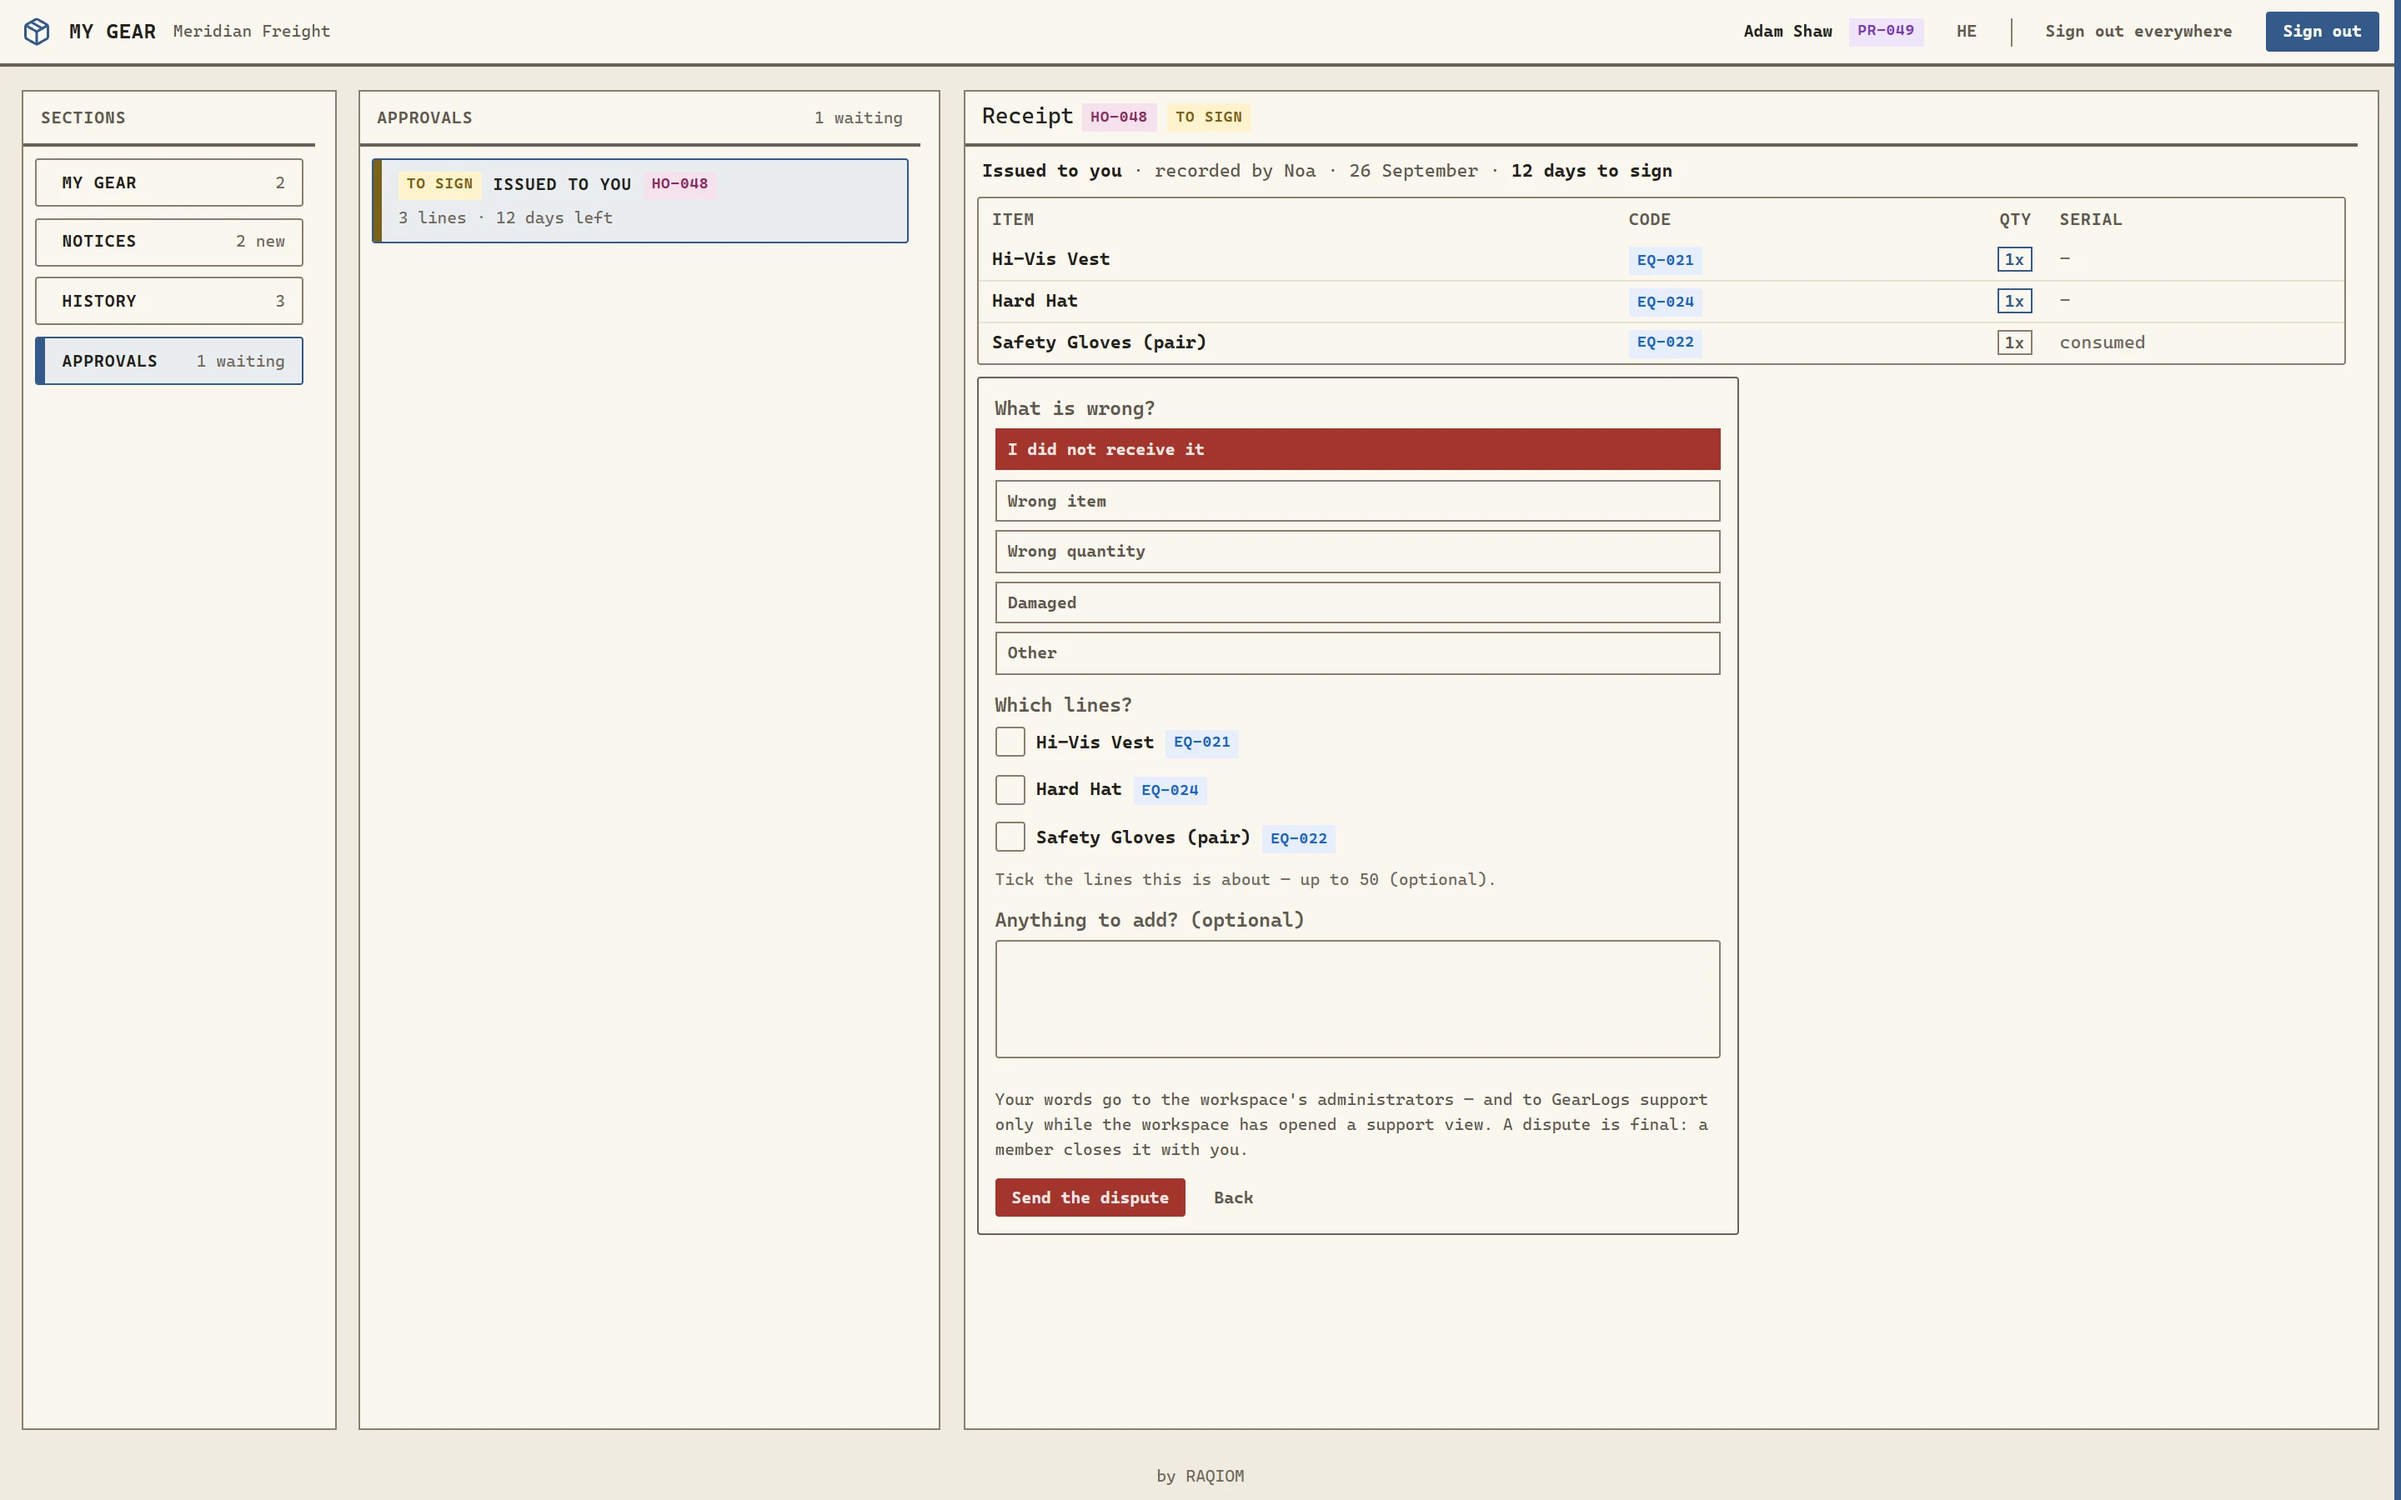
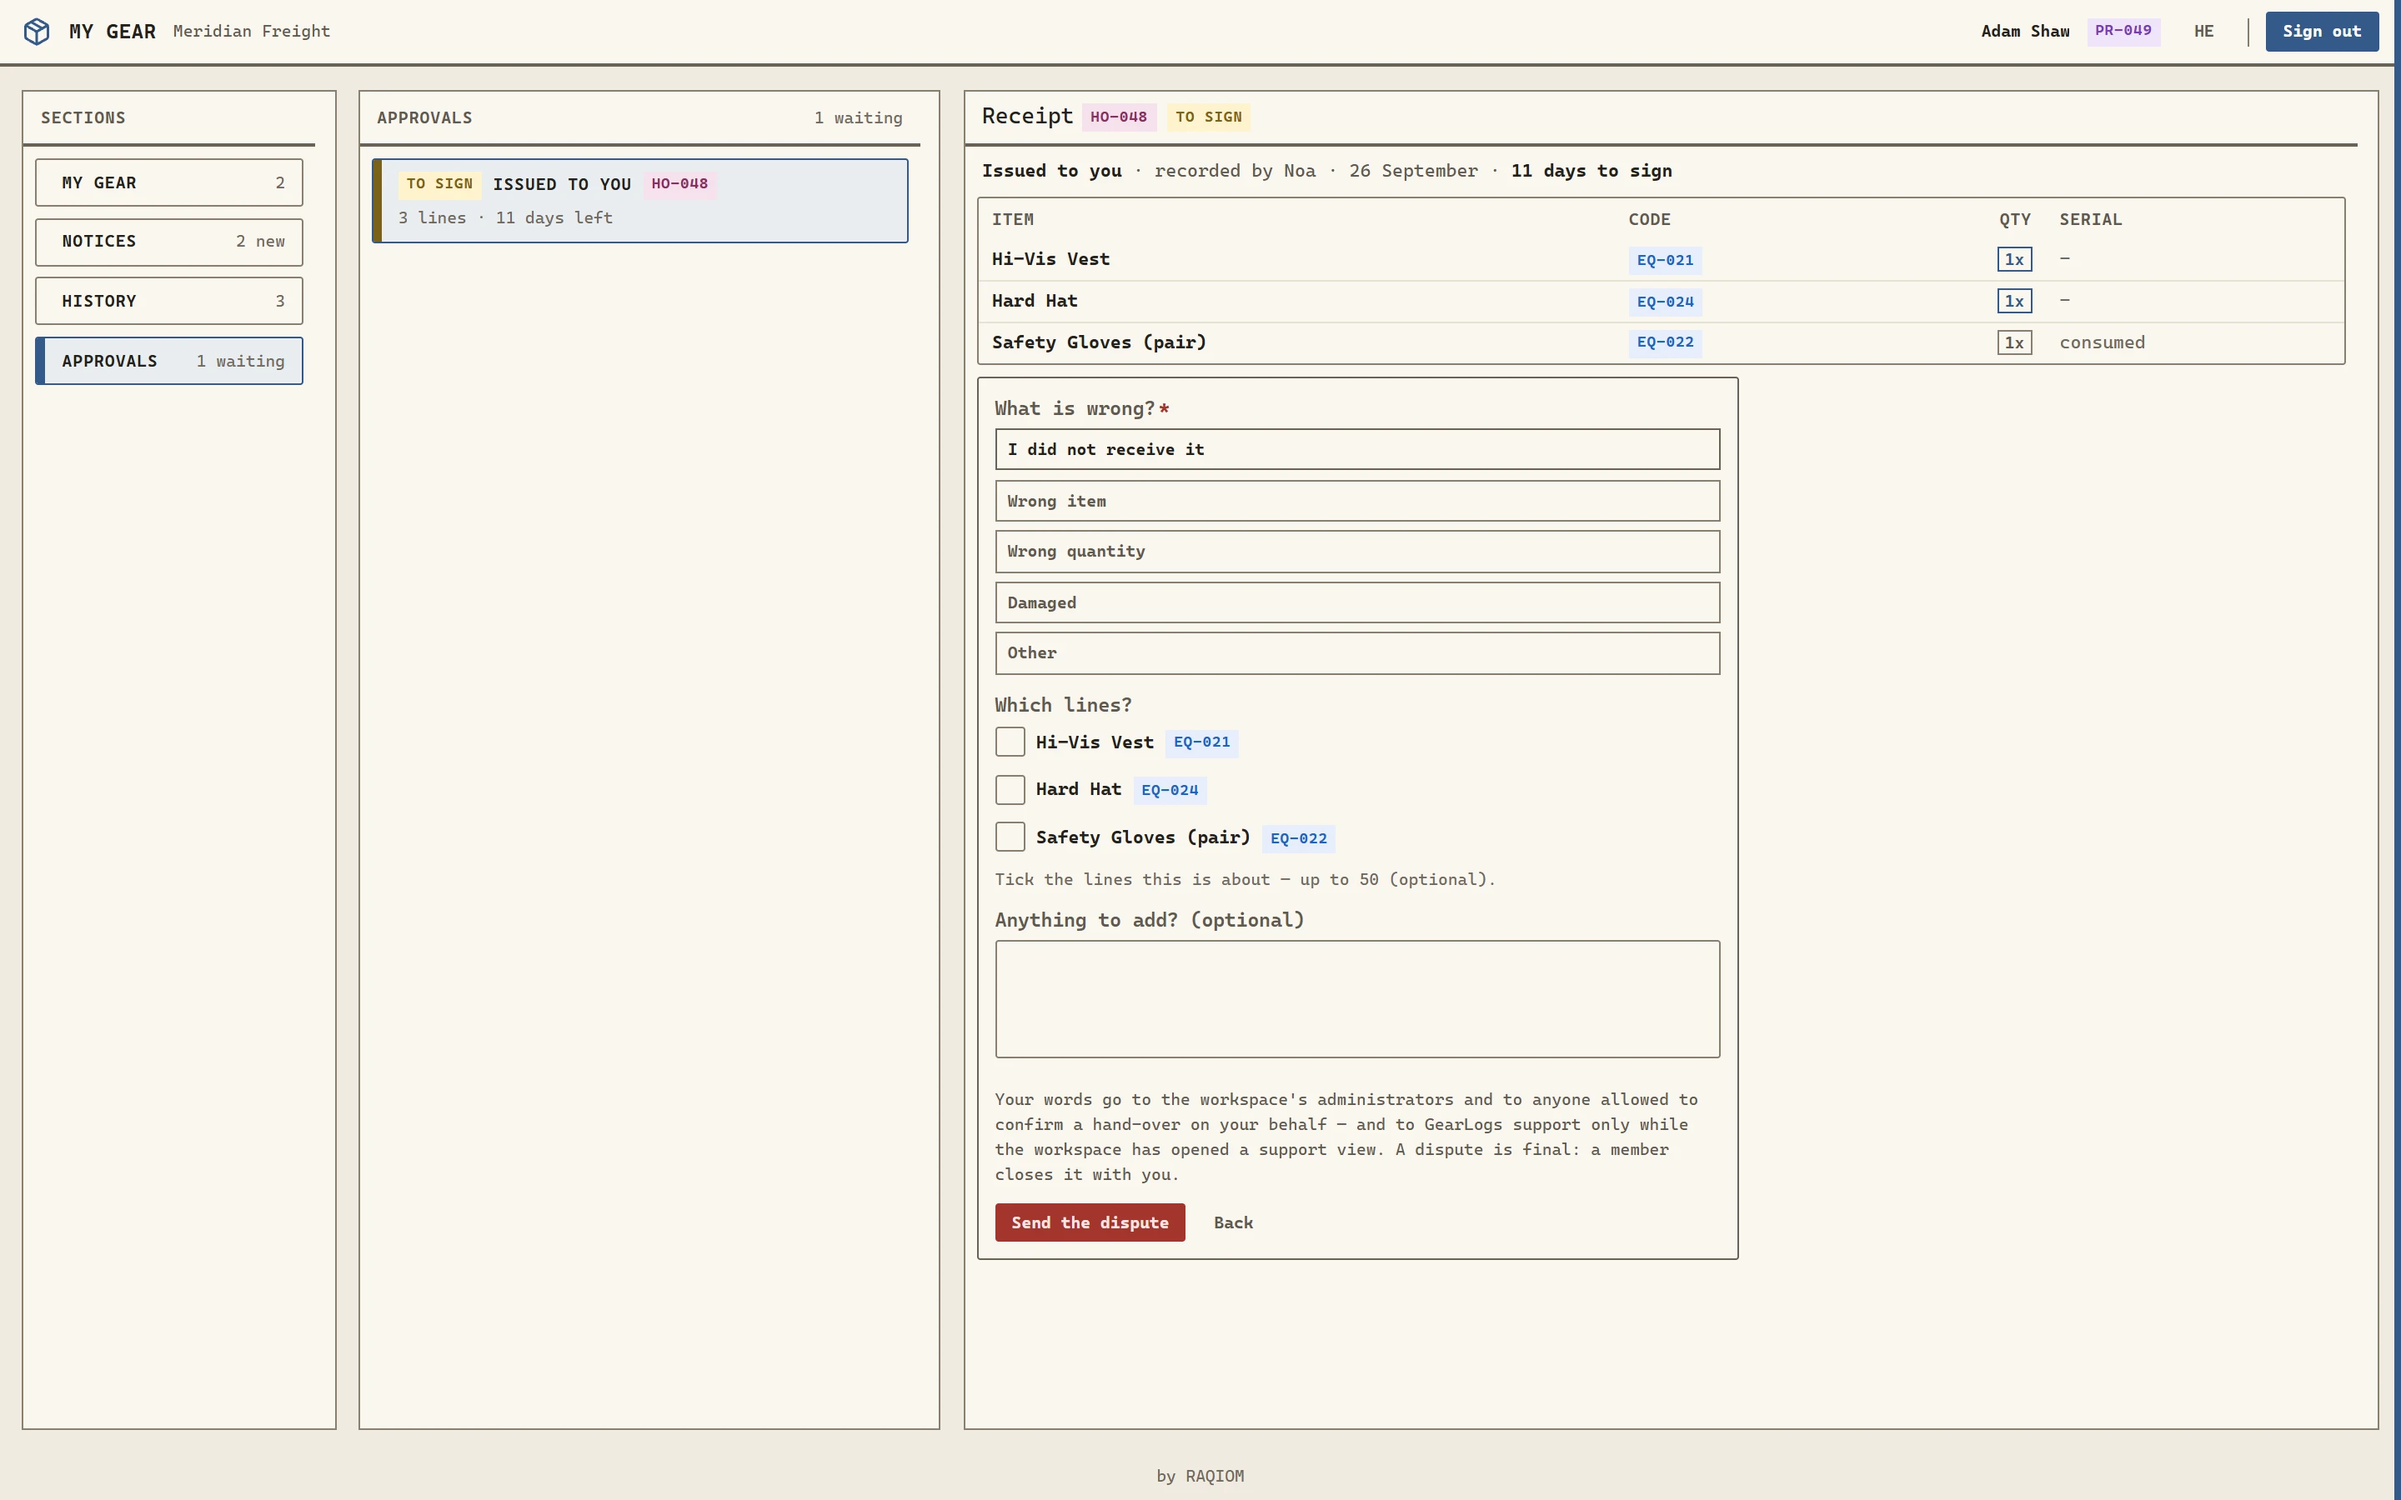
The stage 4 pictures: the top bar and the dispute form re-taken, the workspace code on the Personnel band (EN + HE)
Taken at the Director's sitting: mygear-topbar (one Sign out, three marks),
mygear-receipt-dispute (nothing chosen, the new sentence), personnel-ws-code
(the band's end slot). Guide 4.24 gets its badges back, 4.26 its caption,
4.25 the band picture. The band recipe's missing import fixed.

Claude-Session: https://claude.ai/code/session_01UuJvrsWccbWnuyUmEBS649

diff --git a/src/bodies/guides/sign-in-my-gear.he.html b/src/bodies/guides/sign-in-my-gear.he.html
@@ -61,7 +61,7 @@
               <li>קוראים את השורה שמעל הכפתור, ולוחצים על <em>שליחת הערעור</em>.</li>
             </ol>
             <p>המילים שלכם מגיעות למנהלי המערכת ולמי שרשאי לאשר מסירה בשמכם, ולתמיכת GearLogs רק כל עוד פתוחה תצוגת תמיכה בסביבת העבודה. ערעור הוא סופי מבחינתכם: חבר צוות סוגר אותו יחד אתכם. מנהלי המערכת מקבלים הודעה בפעמון. <em>חזרה</em> יוצא מהטופס בלי לשלוח דבר.</p>
-            <gl-shot id="mygear-receipt-dispute" caption="משהו לא נכון: הסיבות, השורות, המילים שלכם, ושליחת הערעור." marks></gl-shot>
+            <gl-shot id="mygear-receipt-dispute" caption="משהו לא נכון: הסיבות (אף אחת לא מסומנת עד שבוחרים), השורות, המילים שלכם, ושליחת הערעור." marks></gl-shot>
           </li>
           <li class="gstep" id="step-5">
             <h2 class="gstep-t">מוצאים את הציוד שכבר רשום על שמכם.</h2>

diff --git a/src/bodies/guides/sign-in-my-gear.en.html b/src/bodies/guides/sign-in-my-gear.en.html
@@ -61,7 +61,7 @@
               <li>Read the line above the button, then press <em>Send the dispute</em>.</li>
             </ol>
             <p>Your words go to your administrators and to anyone allowed to confirm a hand-over on your behalf, and to GearLogs support only while the workspace has opened a support view. A dispute is final for you: a member of your team closes it with you. Your administrators are told in the bell. <em>Back</em> leaves the form with nothing sent.</p>
-            <gl-shot id="mygear-receipt-dispute" caption="Something is wrong: the reasons, the lines, your words, and Send the dispute." marks></gl-shot>
+            <gl-shot id="mygear-receipt-dispute" caption="Something is wrong: the reasons (none chosen until you pick one), the lines, your words, and Send the dispute." marks></gl-shot>
           </li>
           <li class="gstep" id="step-5">
             <h2 class="gstep-t">Find the gear on your name already.</h2>

diff --git a/src/bodies/guides/give-my-gear.he.html b/src/bodies/guides/give-my-gear.he.html
@@ -63,6 +63,7 @@
               <li><em>אישורים</em>: אישורי המסירה שממתינים לחתימה שלו.</li>
             </ol>
             <p>כש<em>אימייל בוקר לאנשים שלכם</em> פעיל, בהגדרות &rsaquo; התראות, אימייל בוקר מגיע אליהם כשמשהו חדש ממתין. הקישור שבו ממלא עבורם את קוד סביבת העבודה.</p>
+            <gl-shot id="personnel-ws-code" caption="כוח אדם: קוד סביבת העבודה בקצה הסרגל, כפתור ההעתקה וה-(i) שלו." marks></gl-shot>
             <gl-shot id="mygear-sections" caption="הציוד שלי, הדף שהאנשים שלכם נכנסים אליו: ארבעת המדורים שלו." marks></gl-shot>
           </li>
           <li class="gstep" id="step-5">

diff --git a/src/bodies/guides/give-my-gear.en.html b/src/bodies/guides/give-my-gear.en.html
@@ -63,6 +63,7 @@
               <li><em>Approvals</em>: the receipts waiting for their signature.</li>
             </ol>
             <p>With <em>Morning mail to your people</em> on, in Settings &rsaquo; Notifications, a morning email reaches them when something new waits. Its link fills in the workspace code for them.</p>
+            <gl-shot id="personnel-ws-code" caption="Personnel: the workspace code at the end of the band, its Copy button and its (i)." marks></gl-shot>
             <gl-shot id="mygear-sections" caption="My Gear, the page your people sign in to: its four sections." marks></gl-shot>
           </li>
           <li class="gstep" id="step-5">

diff --git a/src/bodies/guides/open-my-gear.he.html b/src/bodies/guides/open-my-gear.he.html
@@ -72,7 +72,7 @@
               <li><em>יציאה</em> מסיימת את החיבור שלכם. אתם מחוברים ממכשיר אחד בכל פעם, כך שאין חיבור אחר לסיים.</li>
             </ol>
             <p>במחשב משותף, צאו תמיד כשאתם מסיימים.</p>
-            <gl-shot id="mygear-topbar" caption="הסרגל העליון: השם והקוד שלכם, מתג השפה ויציאה."></gl-shot>
+            <gl-shot id="mygear-topbar" caption="הסרגל העליון: השם והקוד שלכם, מתג השפה ויציאה." marks></gl-shot>
           </li>
         </ol>
 

diff --git a/src/bodies/guides/open-my-gear.en.html b/src/bodies/guides/open-my-gear.en.html
@@ -72,7 +72,7 @@
               <li><em>Sign out</em> ends your session. You are signed in on one device at a time, so there is nothing else to end.</li>
             </ol>
             <p>On a shared computer, always sign out when you finish.</p>
-            <gl-shot id="mygear-topbar" caption="The top bar: your name and code, the language switch and Sign out."></gl-shot>
+            <gl-shot id="mygear-topbar" caption="The top bar: your name and code, the language switch and Sign out." marks></gl-shot>
           </li>
         </ol>
 
